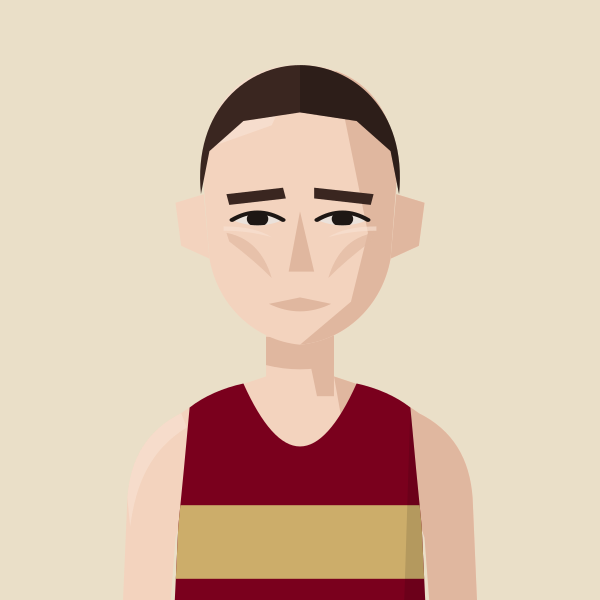
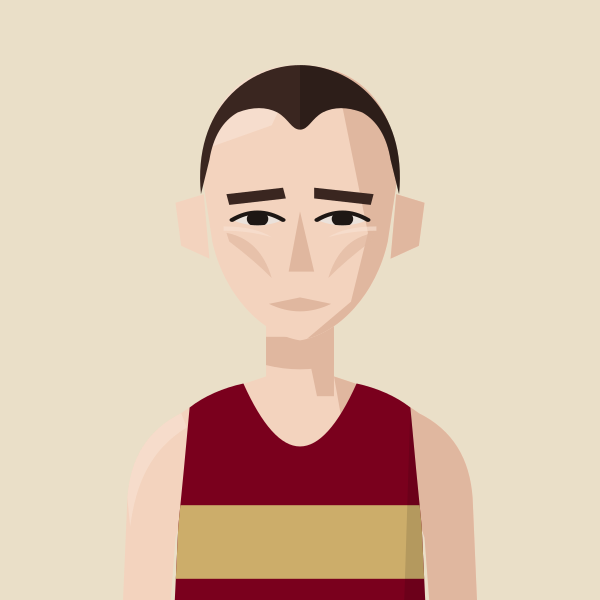
Portraits batch 10: Adam Leane, Alan Mead, Charles Herrington, Clive Shippen, Neil Speaight, Knut Hegvold (H/W and BEL); redraws of Clive Gilby and Gary Staines
Generator note: three jaw shapes - round (default), square, narrow.

Claude-Session: https://claude.ai/code/session_01DgcEr9hQHGiZw2mBbM5jbH

diff --git a/files/index.html b/files/index.html
@@ -591,12 +591,12 @@ const LoadingVests=()=>{
 const PORTRAIT_CLUBS=new Set(['BEL','KEN','THH','HHH','H/W','SLH','G&G','RAN','C/C','DUL','HOL','WAL','CRO','WOK','E&E','FUL','SOC','BOX','BOH','AFD','SUR','MIT','REI','DMV','STR','W4H','W/W','K&P','S&D','SEL','DWN','FOT','LCR','ADV','262','MPA','BAC','OME','VAC','HER']);
 // Superstar portraits: every spelling of the athlete's name used in the data -> file in portraits/athletes/
 const PORTRAITS=(()=>{const m={};const add=(file,club,...names)=>names.forEach(n=>{const k=n.toLowerCase();if(m[k]&&m[k].club!==club)m[k+'@'+club]={file,club};else m[k]={file,club};});
-add('kitty-shepherd-cross','BEL','Kitty Shepherd-Cross','Kitty Shepherd Cross');add('jack-kavanagh','HOL','Jack Kavanagh');add('sam-bramwell','HHH','Sam Bramwell');add('suzie-harvey','G&G','Suzie Harvey');add('freddie-hessian','H/W','Freddie Hessian');add('jamie-crowe','H/W','Jamie Crowe');add('sam-gebreselassie','BEL','Samuel Gebreselassie','Sam Gebreselassie');add('jack-brotchie','HHH','Jack Brotchie');add('jack-millar','THH','Jack Millar');add('lucy-jones','HHH','Lucy Jones');add('alex-milne','H/W','Alex Milne');add('josh-trigwell','BEL','Josh Trigwell');add('mack-downie','BEL','Mack Downey','Mack Downie');add('george-ogden','SLH','George Ogden');add('stuart-mccallum','H/W','Stuart McCallum');add('andrew-penney','H/W','Andrew Penney');add('jeremy-dempsey','THH','Jeremy Dempsey');add('henry-hart','BEL','Henry Hart');add('john-sanderson','G&G','John Sanderson');add('andy-fyfe','BEL','Andrew Fyfe','Andy Fyfe');add('saron-haileselase','BEL','Saron Haileselase');add('paskar-owor','BEL','Paskar Owor');add('ruby-carter','H/W','Ruby Carter');add('tom-foster','G&G','Tom Foster');add('mark-tennyson','G&G','Mark Tennyson');add('richard-ollington','THH','Richard Ollington');add('james-preston','BEL','James Preston');add('daniel-wolff','BEL','Daniel Wolff');add('jonny-scott','BEL','Jonathan Scott','Jonny Scott');add('josh-mitchell','BEL','Josh Mitchell');add('dylan-evans','BEL','Dylan Evans');add('morgan-roberts','HHH','Morgan Roberts');add('fred-slemeck','H/W','Fred Slemeck','Frederick Slemeck');add('matthew-edgar','BEL','Matthew Edgar');add('sam-sommerville','BEL','Sam Sommerville');add('richard-mcdowell','H/W','Richard McDowell');add('margaret-coogan','HHH','Margaret Coogan');add('owen-hind','KEN','Owen Hind','Owen Hinds');add('indy-barnes','THH','Indy Barnes');add('conall-mcnally','BEL','Conall McNally');add('rowan-board','HHH','Rowan Board');add('andy-weir','THH','Andy Weir','Andrew Weir');add('neil-chisholm','THH','Neil Chisholm','Neal Chisholm');add('pancho-panchev','H/W','Pancho Panchev');add('adrien-royer','G&G','Adrien Royer');add('rob-kelly','BEL','Robert Kelly','Rob Kelly');add('alex-janiaud','BEL','Alex Janiaud');add('jack-ramm','DUL','Jack Ramm');add('findlay-dyer','BEL','Findlay Dyer');add('james-blackwood','DUL','James Blackwood');add('sonny-nicoll','H/W','Sonny Nicoll');add('anisse-ismaili','THH','Anisse Ismaili');add('caleb-hathaway','HHH','Caleb Hathaway');add('barnaby-day','KEN','Barnaby Day');add('simon-coppard','BEL','Simon Coppard');add('ronan-tanguy','HHH','Ronan Tanguy');add('chris-threadgold','BEL','Chris Threadgold');add('mathew-speed','KEN','Mathew Speed','Matthew Speed');add('john-lethbridge','THH','John Lethbridge');add('oliver-fox','THH','Oliver Fox');add('jack-woods','HOL','Jack Woods');add('larry-ryan','BEL','Larry Ryan');add('ethan-mccolgan','THH','Ethan McColgan');add('jonathan-collier','KEN','Jonathan Collier');add('andrew-green','HOL','Andrew Green','Andy Green');add('fintan-pearce','BEL','Fintan Pearce');add('daniel-shaw','HHH','Daniel Shaw');add('sam-tyas','BEL','Sam Tyas');add('tom-austin','HHH','Tom Austin');add('ian-ellwood','KEN','Ian Ellwood');add('rian-mccawley','BEL','Rian McCawley');add('kieran-barnes','HOL','Kieran Barnes');add('ed-mallett','H/W','Ed Mallett','Edward Mallett');add('john-hutchins','WOK','John Hutchins');add('george-gathercole','THH','George Gathercole');add('nick-lightfoot','G&G','Nick Lightfoot');add('eoin-brady','H/W','Eoin Brady');add('james-stockings','H/W','James Stockings');add('jack-hobden','H/W','Jack Hobden');add('hugo-hewitt','HOL','Hugo Hewitt');add('zach-nolan','BEL','Zach Nolan');add('isaac-lutaya','H/W','Isaac Lutaya');add('oliver-young','BEL','Oliver Young');add('ben-racle','KEN','Ben Racle');add('josh-snow','BEL','Josh Snow');add('oliver-reynolds','BEL','Oliver Reynolds');add('aaron-wilson','DUL','Aaron Wilson');add('liam-burthem','HHH','Liam Burthem');add('dan-pettitt','KEN','Dan Pettitt');add('bob-holt','H/W','Bob Holt');add('dave-holt','H/W','Dave Holt');add('mike-fuller','H/W','Mike Fuller');add('mike-beevor','H/W','Mike Beevor');add('john-day','H/W','John Day');add('john-sullivan','H/W','John Sullivan');add('barry-collins','H/W','Barry Collins');add('bob-rayman','H/W','Bob Rayman');add('pete-mulholland','H/W','Pete Mulholland');add('charlie-eastaugh','H/W','Charlie Eastaugh');add('oli-carrington','H/W','Oli Carrington');add('jonathan-cornish','H/W','Jonathan Cornish');add('christopher-parker','THH','Christopher Parker');add('monty-hudson','BEL','Monty Hudson');add('dan-wallis-gg','G&G','Dan Wallis');add('ben-pearce','HOL','Ben Pearce');add('jacob-brockmann','THH','Jacob Brockmann');add('alex-gutteridge','HHH','Alex Gutteridge');add('tom-davies','H/W','Tom Davies');add('matt-wood','HHH','Matt Wood');add('isaac-parker','KEN','Isaac Parker');add('tom-omahoney','HHH','Tom O\'Mahoney');add('ed-brewer','G&G','Ed Brewer');add('james-bartram','THH','James Bartram');add('charlie-pickett','G&G','Charlie Pickett');add('harry-guttridge','C/C','Harry Guttridge');add('alex-harris','KEN','Alex Harris');add('tom-thornley','HOL','Tom Thornley');add('max-bloor','DUL','Max Bloor');add('john-foxall','HHH','John Foxall');add('robin-boon','G&G','Robin Boon');add('joe-english','KEN','Joe English');add('sebastian-anthony','G&G','Sebastian Anthony');add('thomas-gardner','BEL','Thomas Gardner');add('brian-wilder','HHH','Brian Wilder');add('george-jackson','HHH','George Jackson');add('james-roberts','BEL','James Roberts');add('ed-gibson','DUL','Ed Gibson');add('jack-harrison','SLH','Jack Harrison');add('matthew-varley','BEL','Matthew Varley');add('eddie-rolls','C/C','Eddie Rolls');add('phil-sanders','KEN','Phil Sanders');add('jon-phillips','DUL','Jon Phillips');add('noah-fernandez','H/W','Noah Fernandez');add('paul-calver','HHH','Paul Calver');add('jordan-weaver','KEN','Jordan Weaver');add('john-thresher','BEL','John Thresher','J Thresher');add('junior-galley','BEL','Junior Galley');add('tony-binda','BEL','Tony Binda');add('phil-carstairs','BEL','Phil Carstairs');add('clive-gilby','BEL','Clive Gilby');add('roger-alsop','HHH','Roger Alsop');add('roger-alsop-bel','BEL','Roger Alsop');add('gerry-adams','BEL','Gerry Adams');add('mike-nouch','BEL','Mike Nouch');add('darren-mead','BEL','Darren Mead');add('james-estall','BEL','James Estall','Jim Estall','J Estall');add('thomas-renshaw','THH','Thomas Renshaw','Tom Renshaw');add('amittai-ben-israel','THH','Amittai Ben-Israel');add('helena-keenan','HHH','Helena Keenan');add('eloise-bull','G&G','Eloise Bull');add('gemma-newport','BEL','Gemma Newport');add('sarah-palmer','STR','Sarah Palmer');add('sarah-palmer-ran','RAN','Sarah Palmer');add('elinor-skinner','KEN','Elinor Skinner');add('sarah-holt','STR','Sarah Holt');add('serena-carter','THH','Serena Carter');add('abbey-brooke','BEL','Abbey Brooke');add('becky-briggs','BEL','Becky Briggs');add('maddie-mastrolonardo','BEL','Maddie Mastrolonardo');add('jennifer-nandi','HHH','Jennifer Nandi');add('ella-fennelly','BEL','Ella Fennelly');add('natalie-beadle','BEL','Natalie Beadle');add('pamela-mchutchon','STR','Pamela McHutchon');add('gerry-north','BEL','Gerry North','G North');add('steve-gardner','BEL','Steve Gardner');add('alex-yee','KEN','Alex Yee');add('phil-wicks','BEL','Phil Wicks');add('john-gilbert','KEN','John Gilbert','Jonathan Gilbert');add('chris-busaileh','KEN','Chris Busaileh');add('jim-allchin','KEN','Jim Allchin');add('finn-johnson','H/W','Finn Johnson');add('will-cockerell','BEL','William Cockerell','Will Cockerell');add('nick-goolab','BEL','Nick Goolab');add('arne-dumez','BEL','Arne Dumez');add('geoff-jerwood','HHH','Geoff Jerwood','G Jerwood');add('alex-lee','HHH','Alex Lee');add('benedict-whitby','HHH','Benedict Whitby');add('falilou-kebe','BEL','Falilou Kebe');add('jack-dickson','H/W','Jack Dickson');add('phil-swinburn','HOL','Phil Swinburn');add('rob-armstrong','DUL','Rob Armstrong');add('ashley-goncalves','HHH','Ashley Goncalves');add('eddie-jodrell','BEL','Eddie Jodrell');add('thomas-gandee','BEL','Thomas Gandee');add('max-milarvie','DUL','Max Milarvie');add('alex-lennon','BEL','Alex Lennon');add('james-hoad','THH','James Hoad');add('william-gardner','BEL','William Gardner');add('paddy-roddy','THH','Paddy Roddy','PADDY RoDDY');add('simon-waterhouse','BEL','Simon Waterhouse');add('conall-whelan','BEL','Conall Whelan');add('simon-williams','BEL','Simon Williams');add('christian-lee','HOL','Christian Lee');add('sean-cordon','DUL','Sean Cordon','sean cordon');add('michael-mccarthy','BEL','Michael McCarthy','Michael Mccarthy');add('jeff-cunningham','HHH','Jeff Cunningham');add('sam-peters','H/W','Sam Peters');add('ryan-hickey','HHH','Ryan Hickey');add('ben-scott','BEL','Ben Scott');add('tom-gifford','BEL','Tom Gifford');add('valentin-rigori','BEL','Valentin Rigori');add('david-grima','H/W','David Grima');add('deron-fagan','HHH','Deron Fagan');add('lee-lintern','G&G','Lee Lintern');add('ian-acreman','G&G','Ian Acreman');add('alex-howard','THH','Alex Howard');add('james-hancock','BEL','James Hancock');add('nick-morris','BEL','Nick Morris');add('richard-sun','H/W','Richard Sun');add('jonathan-cocker','G&G','Jonathan Cocker');add('isobel-hodder','BEL','Isobel Hodder');add('emma-howsham','G&G','Emma Howsham');add('eilidh-hide','BEL','Eilidh Hide');add('karen-xiang','BEL','Karen Xiang');add('claire-grima','H/W','Claire Grima');add('emma-gordon','BEL','Emma Gordon');add('emily-lowery','BEL','Emily Lowery');add('felicity-harrison','BEL','Felicity Harrison');add('alice-martin','HOL','Alice Martin');add('juliet-hodder','BEL','Juliet Hodder');add('abbie-bulbulian','C/C','Abbie Bulbulian');add('lara-mangan','BEL','Lara Mangan');add('clare-elms','KEN','Clare Elms');add('james-nutt','HHH','James Nutt');add('colin-high','G&G','Colin High');add('gavin-eccles','BEL','Gavin Eccles');add('samuel-dames','KEN','Samuel Dames');add('tom-lole','BEL','Tom Lole');add('will-marshall','BEL','Will Marshall');add('stephen-mcleod','HHH','Stephen McLeod');add('rory-orsborn','HHH','Rory Orsborn');add('thomas-dugre','BEL','Thomas Dugre');add('arthur-peel','BEL','Arthur Peel');add('angus-lamb','BEL','Angus Lamb');add('andrew-warburton','HHH','Andrew Warburton');add('robert-laing','KEN','Robert Laing');add('toby-cooke','H/W','Toby Cooke');add('harrison-hayman','SLH','Harrison Hayman');add('edward-chuck','DUL','Edward Chuck');add('robert-sesemann','KEN','Robert Sesemann');add('eoin-molloy','BEL','Eoin Molloy');add('ollie-garrod','BEL','Ollie Garrod');add('matthew-houchell','G&G','Matthew Houchell');add('ben-clarke','KEN','Ben Clarke');add('benjamin-hilson','HOL','Benjamin Hilson');add('molly-oconnor','KEN',"Molly O'Connor");add('iona-cousland','KEN','Iona Cousland');add('anika-schwarze-chintapatla','THH','Anika Schwarze-Chintapatla');add('suzy-whatmough','RAN','Suzy Whatmough');add('kristina-popadich','BEL','Kristina Popadich');add('dillan-quinn','H/W','Dillan Quinn');add('sarah-riceman','BEL','Sarah Riceman');add('holly-pan','BEL','Holly Pan');add('jermaine-mays','SLH','Jermaine Mays');add('gary-staines','BEL','Gary Staines');add('charlie-wyllie','H/W','Charlie Wyllie');add('george-cotton','WOK','George Cotton');add('cameron-reilly','G&G','Cameron Reilly');add('jack-dormer','WOK','Jack Dormer');add('lea-adamson','BEL','Lea Adamson');add('max-heyden','BEL','Max Heyden');add('ian-crowe-wright','BEL','Ian Crowe-Wright');add('neil-wilson','BEL','Neil Wilson');add('lloyd-kempson','BEL','Lloyd Kempson');add('andy-coley-maud','G&G','Andy Coley-Maud');add('dan-cliffe','H/W','Dan Cliffe');add('patrick-mcdougall','BEL','Patrick McDougall','Patrick Mcdougall');add('callum-stewart','BEL','Callum Stewart');add('jamie-parkinson','THH','Jamie Parkinson');add('phil-sesemann','KEN','Phil Sesemann');add('andy-coley-maud-cc','C/C','Andy Coley-Maud');add('jon-pepper-slh','SLH','Jon Pepper');add('ralph-street','RAN','Ralph Street');add('jon-pepper','RAN','Jon Pepper');add('kevin-quinn','SLH','Kevin Quinn');add('frank-tickner','KEN','Frank Tickner');add('paul-pollock','KEN','Paul Pollock');add('chris-busaileh-hhh','HHH','Chris Busaileh','Chris Busileah');add('james-mcmullan','THH','James McMullan');add('ben-hurley','BEL','Ben Hurley');add('alice-crane','DMV','Alice Crane');add('martina-conner','BEL','Martina Conner');add('georgie-grgec','HHH','Georgie Grgec');add('katie-snowden','HHH','Katie Snowden');add('kate-axford','BEL','Kate Axford');add('sarah-astin','BEL','Sarah Astin');add('georgie-bruinvels','SLH','Georgie Bruinvels','G Bruinvels','Georgia Bruinvels');add('samantha-munday','BEL','Samantha Munday','Sanantha Munday');add('holly-nixon','BEL','Holly Nixon');add('sophie-harris','BEL','Sophie Harris');add('isabel-brinsden','E&E','Isabel Brinsden');add('mimi-corden-lloyd','BEL','Mimi Corden-Lloyd');add('steph-hewitt','BEL','Stephanie Hewitt','Steph Hewitt');add('jared-martin','THH','Jared Martin');add('david-bowers','BEL','David Bowers','Dave Bowers');add('stuart-major','SLH','Stuart Major');add('stuart-major-thh','THH','Stuart Major');add('bernie-ford','AFD','Bernie Ford','B Ford');add('dave-taylor','HHH','Dave Taylor');add('arlo-ludewick','HHH','Arlo Ludewick');add('molly-smith','HHH','Molly Smith');add('tom-conlon','HHH','Tom Conlon','T Conlon');add('mike-cummings','HHH','Mike Cummings','M Cummings');add('simon-wurr','THH','Simon Wurr','S Wurr');add('cameron-dockerill','KEN','Cameron Dockerill','Cam Dockerill');add('james-ewing','KEN','James Ewing','Jamie Ewing');add('james-murray','KEN','James Murray');add('phil-woodford-smith','KEN','Phil Woodford-Smith');add('clare-pauzers','HHH','Clare Pauzers','Clare Pauzer','Claire Pauzer');add('steve-smythe','DUL','Steve Smythe','S Smythe','S Smyth','Steve Smyth','SMYTHE');add('steve-smythe-hhh','HHH','Steve Smythe');add('david-symons','THH','David Symons','Dave Symons','D Symons');add('john-foss','SLH','John Foss','John Fosse');add('lucy-macalister','THH','Lucy Macalister','L Macalister');add('vic-maughan','HHH','Vic Maughan','Vic Maughn','Victor Maughn','V Maughan','V Maughn','V Maugan');add('lewis-lloyd','HHH','Lewis Lloyd');add('nic-lukies','BEL','Nic Lukies');add('max-nicholls','KEN','Max Nicholls');add('nick-acfield','KEN','Nick Acfield');add('olly-buck','KEN','Olly Buck');add('dame-dibaba','KEN','Dame Dibaba');add('chris-greenwood','KEN','Chris Greenwood','Christopher Greenwood');add('chris-keavey','BEL','Chris Keavey','C Keavey');add('john-moore','BEL','John Moore');add('john-bromley','BEL','John Bromley');add('don-maclean','BEL','Don Maclean','Don McLean','D Maclean');add('david-north','BEL','Dave North','David North','D North');add('mark-waller','BEL','Mark Waller','M Waller');add('john-gladwin','BEL','John Gladwin','J Gladwin');add('alan-black','BEL','Alan Black');add('james-kelly','BEL','James Kelly');add('russell-dessaix-chin','BEL','Russell Dessaix-Chin');add('malachi-byansi','BEL','Malachi Byansi','Mal Byansi','M Byansi','Martin Byansi','Moses Byansi');add('chris-moss','BEL','Chris Moss');add('richard-ward','BEL','Richard Ward');add('david-anderson','BEL','David Anderson');add('spencer-barden','BEL','Spencer Barden');add('jonathon-blackledge','BEL','Jonathon Blackledge','J Blackledge');add('peter-clarke','H/W','Peter Clarke','P Clarke','Pete Clarke');add('mark-sinclair','BEL','Mark Sinclair','M Sinclair');add('jean-paul-wright','BEL','Jean Paul Wright','J Wright');add('mike-hayes','BEL','Mike Hayes','M Hayes');add('marcello-bizio','BEL','Marcello Bizio','M Bizio');add('ollie-foote','BEL','Oliver Foote','Ollie Foote','O Foote');add('tim-watson','BEL','Tim Watson','T Watson');add('mark-miles','BEL','Mark Miles','M Miles');add('kevin-nash','BEL','Kevin Nash','K Nash');add('paul-freary','BEL','Paul Freary','P Freary');add('stephen-sharp','BEL','Steve Sharp','Stephen Sharp');add('kassa-tadesse','BEL','Kassa Tadesse','K Tadesse');add('mike-farmery','THH','Mike Farmery','M Farmery','N Farmery');add('tom-south','DUL','Tom South','Thomas South');add('peter-giles','H/W','Peter Giles');add('peter-giles-thh','THH','Peter Giles');add('simon-coombes','HHH','Simon Coombes','S Coombes');add('david-ogden','SLH','David Ogden','Dave Ogden','D Ogden');add('robert-elphick','KEN','Robert Elphick');add('tony-harran','HHH','Tony Harran','Anthony Harran','A Harran','T Harran');add('ben-reynolds','THH','Ben Reynolds','B Reynolds');add('tom-jervis','H/W','Tom Jervis');add('nick-torry','KEN','Nick Torry','Nicholas Torry');add('john-bicourt','BEL','John Bicourt','J Bicourt');add('ruby-whyte-wilding','BEL','Ruby Whyte-Wilding');add('sophie-tooley','HHH','Sophie Tooley');add('catherine-kandie','KEN','Catherine Kandie');add('olivia-stillman','HHH','Olivia Stillman');add('alex-gandee','BEL','Alex Gandee');add('billie-mcclosky','BEL','Billie McClosky');add('lisa-bailey','STR','Lisa Bailey');add('amy-clements','KEN','Amy Clements');add('bethanie-murray','THH','Bethanie Murray');add('evie-warren','G&G','Evie Warren');add('lucy-peters','BEL','Lucy Peters');add('emma-lord','H/W','Emma Lord');add('alice-bridger-morales','HHH','Alice Bridger Morales');add('emily-bradley','BEL','Emily Bradley');add('isabelle-pickett','G&G','Isabelle Pickett');add('felicity-hayward','THH','Felicity Hayward');add('gabriel-reynolds','HHH','Gabriel Reynolds');add('lara-bromilow','KEN','Lara Bromilow');add('megan-gildea','HHH','Megan Gildea');add('maeve-kenny','SLH','Maeve Kenny');add('emilie-arnoux','BEL','Emilie Arnoux');add('katie-good','KEN','Katie Good');add('ellie-freeden','KEN','Ellie Freeden');add('alice-smith','SLH','Alice Smith');add('florence-wiggins','THH','Florence Wiggins');add('alexandra-barbour','BEL','Alex Barbour','Alexandra Barbour');add('ella-king-powrie','BEL','Ella King Powrie');add('betsy-griffiths','RAN','Betsy Griffiths');add('nicola-douglas','STR','Nicola Douglas');add('georgie-furze','WOK','Georgie Furze');add('emma-rowland','BEL','Emma Rowland');add('charlotte-griffiths','BEL','Charlotte Griffiths');add('mary-james','SLH','Mary James');add('penny-oliver','BEL','Penny Oliver');add('ava-mcandie','H/W','Ava McAndie');add('bethan-goddard','BEL','Bethan Goddard');add('nikki-sturzaker','HHH','Nikki Sturzaker');add('hannah-english','HHH','Hannah English');add('clara-pettit','H/W','Clara Pettit');add('adrian-major','BEL','Adrian Major');add('bill-kerr','BEL','Bill Kerr','W Kerr');add('brian-gorman','BEL','Brian Gorman','B Gorman');add('charlie-dabbs','BEL','Charlie Dabbs','C Dabbs');add('charlie-manning','BEL','Charlie Manning','C Manning','Charlie Maning');add('john-davies','BEL','John Davies');add('lionel-mann','BEL','Lionel Mann','L Mann');add('pat-newell','BEL','Pat Newell','P Newell');add('tony-fairclough','BEL','Tony Fairclough');add('trevor-hart','BEL','Trevor Hart');add('ron-linstead','BEL','Ron Linstead','R Linstead');add('john-baker','BEL','John Baker','J V Baker','J Baker');add('simon-holmes','BEL','Simon Holmes','S Holmes');add('mike-kortenray','H/W','Mike Kortenray','M Kortenray');add('geoff-biscoe','MIT','Geoff Biscoe','G Biscoe');add('andy-north','BEL','Andy North','A North');add('charlie-dickinson','BEL','Charlie Dickinson','C Dickinson');add('dave-beaver','BEL','Dave Beaver','D Beaver');add('john-mather','BEL','John Mather','J Mather','Jon Mather');add('jon-hobbs','BEL','Jon Hobbs','J Hobbs');add('justin-chaston','BEL','Justin Chaston','J Chaston');add('matt-chaston','BEL','Matt Chaston','M Chaston');add('mark-anderson','BEL','Mark Anderson','M Anderson');add('martin-lake','BEL','Martin Lake','M Lake');add('martin-lewington','BEL','Martin Lewington','M Lewington');add('pete-gardner','BEL','Pete Gardner','P Gardner');add('ray-foley','BEL','Ray Foley','R Foley');add('richard-langley','BEL','Richard Langley');add('don-faircloth','CRO','Don Faircloth','D Faircloth');add('john-kimaiyo','BEL','John Kimaiyo');add('martin-dent','BEL','Martin Dent');add('catherine-bryson','BEL','Catherine Bryson','C Bryson');add('gabby-collison','BEL','Gabby Collison','G Collison','Gabrielle Collison');add('jodie-favell','BEL','Jodie Favell','Jodie Albrow');add('louise-cooper','BEL','Louise Cooper','L Cooper');add('sarah-murphy','BEL','Sarah Murphy');add('tilly-heaton','C/C','Tilly Heaton','Mathilde Heaton','Matilda Heaton');add('tilly-heaton-bel','BEL','Tilly Heaton','Mathilde Heaton','Matilda Heaton');add('vicky-clarke','BEL','Vicky Clarke','Victoria Clarke');add('geoff-north','BEL','Geoff North');add('laurie-ohara','BEL','Laurie O\'Hara','L O\'Hara');add('chris-steer','BEL','Chris Steer','C Steer');add('barry-sawyer','BEL','Barry Sawyer','Sawyer');add('charlie-walker','BEL','Charlie Walker','C Walker');add('john-dear','BEL','John Dear','J Dear');add('michael-baker','BEL','Michael Baker');add('pat-oconnor','BEL','Pat O\'Connor','P O\'Connor');add('colin-pearson','BEL','Colin Pearson','C Pearson');add('jim-rimmer','BEL','Jim Rimmer','J Rimmer');add('john-stow','BEL','John Stow','J Stow');add('fred-paget','BEL','Fred Paget','F Paget');add('bill-weller','BEL','Bill Weller','W Weller');add('bill-weller-wal','WAL','Bill Weller','W Weller');add('doug-maughan','BEL','Doug Maughan','D Maughan');add('john-roberts','SLH','John Roberts','J Roberts');add('norman-stairs','BEL','Norman Stairs');add('jack-hampshire','BEL','Jack Hampshire','Jackie Hampshire');add('ranjit-bhatia','BEL','Ranjit Bhatia');add('graham-macky','BEL','Graham Macky','G Mackie');add('frank-ward','BEL','Frank Ward','F Ward','Francis Ward');add('kevin-sturman','BEL','Kevin Sturman','K Sturman');add('stuart-paton','BEL','Stuart Paton','S Paton','Steve Paton');add('andy-paton','BEL','Andy Paton','A Paton');
+add('kitty-shepherd-cross','BEL','Kitty Shepherd-Cross','Kitty Shepherd Cross');add('jack-kavanagh','HOL','Jack Kavanagh');add('sam-bramwell','HHH','Sam Bramwell');add('suzie-harvey','G&G','Suzie Harvey');add('freddie-hessian','H/W','Freddie Hessian');add('jamie-crowe','H/W','Jamie Crowe');add('sam-gebreselassie','BEL','Samuel Gebreselassie','Sam Gebreselassie');add('jack-brotchie','HHH','Jack Brotchie');add('jack-millar','THH','Jack Millar');add('lucy-jones','HHH','Lucy Jones');add('alex-milne','H/W','Alex Milne');add('josh-trigwell','BEL','Josh Trigwell');add('mack-downie','BEL','Mack Downey','Mack Downie');add('george-ogden','SLH','George Ogden');add('stuart-mccallum','H/W','Stuart McCallum');add('andrew-penney','H/W','Andrew Penney');add('jeremy-dempsey','THH','Jeremy Dempsey');add('henry-hart','BEL','Henry Hart');add('john-sanderson','G&G','John Sanderson');add('andy-fyfe','BEL','Andrew Fyfe','Andy Fyfe');add('saron-haileselase','BEL','Saron Haileselase');add('paskar-owor','BEL','Paskar Owor');add('ruby-carter','H/W','Ruby Carter');add('tom-foster','G&G','Tom Foster');add('mark-tennyson','G&G','Mark Tennyson');add('richard-ollington','THH','Richard Ollington');add('james-preston','BEL','James Preston');add('daniel-wolff','BEL','Daniel Wolff');add('jonny-scott','BEL','Jonathan Scott','Jonny Scott');add('josh-mitchell','BEL','Josh Mitchell');add('dylan-evans','BEL','Dylan Evans');add('morgan-roberts','HHH','Morgan Roberts');add('fred-slemeck','H/W','Fred Slemeck','Frederick Slemeck');add('matthew-edgar','BEL','Matthew Edgar');add('sam-sommerville','BEL','Sam Sommerville');add('richard-mcdowell','H/W','Richard McDowell');add('margaret-coogan','HHH','Margaret Coogan');add('owen-hind','KEN','Owen Hind','Owen Hinds');add('indy-barnes','THH','Indy Barnes');add('conall-mcnally','BEL','Conall McNally');add('rowan-board','HHH','Rowan Board');add('andy-weir','THH','Andy Weir','Andrew Weir');add('neil-chisholm','THH','Neil Chisholm','Neal Chisholm');add('pancho-panchev','H/W','Pancho Panchev');add('adrien-royer','G&G','Adrien Royer');add('rob-kelly','BEL','Robert Kelly','Rob Kelly');add('alex-janiaud','BEL','Alex Janiaud');add('jack-ramm','DUL','Jack Ramm');add('findlay-dyer','BEL','Findlay Dyer');add('james-blackwood','DUL','James Blackwood');add('sonny-nicoll','H/W','Sonny Nicoll');add('anisse-ismaili','THH','Anisse Ismaili');add('caleb-hathaway','HHH','Caleb Hathaway');add('barnaby-day','KEN','Barnaby Day');add('simon-coppard','BEL','Simon Coppard');add('ronan-tanguy','HHH','Ronan Tanguy');add('chris-threadgold','BEL','Chris Threadgold');add('mathew-speed','KEN','Mathew Speed','Matthew Speed');add('john-lethbridge','THH','John Lethbridge');add('oliver-fox','THH','Oliver Fox');add('jack-woods','HOL','Jack Woods');add('larry-ryan','BEL','Larry Ryan');add('ethan-mccolgan','THH','Ethan McColgan');add('jonathan-collier','KEN','Jonathan Collier');add('andrew-green','HOL','Andrew Green','Andy Green');add('fintan-pearce','BEL','Fintan Pearce');add('daniel-shaw','HHH','Daniel Shaw');add('sam-tyas','BEL','Sam Tyas');add('tom-austin','HHH','Tom Austin');add('ian-ellwood','KEN','Ian Ellwood');add('rian-mccawley','BEL','Rian McCawley');add('kieran-barnes','HOL','Kieran Barnes');add('ed-mallett','H/W','Ed Mallett','Edward Mallett');add('john-hutchins','WOK','John Hutchins');add('george-gathercole','THH','George Gathercole');add('nick-lightfoot','G&G','Nick Lightfoot');add('eoin-brady','H/W','Eoin Brady');add('james-stockings','H/W','James Stockings');add('jack-hobden','H/W','Jack Hobden');add('hugo-hewitt','HOL','Hugo Hewitt');add('zach-nolan','BEL','Zach Nolan');add('isaac-lutaya','H/W','Isaac Lutaya');add('oliver-young','BEL','Oliver Young');add('ben-racle','KEN','Ben Racle');add('josh-snow','BEL','Josh Snow');add('oliver-reynolds','BEL','Oliver Reynolds');add('aaron-wilson','DUL','Aaron Wilson');add('liam-burthem','HHH','Liam Burthem');add('dan-pettitt','KEN','Dan Pettitt');add('bob-holt','H/W','Bob Holt');add('dave-holt','H/W','Dave Holt');add('mike-fuller','H/W','Mike Fuller');add('mike-beevor','H/W','Mike Beevor');add('john-day','H/W','John Day');add('john-sullivan','H/W','John Sullivan');add('barry-collins','H/W','Barry Collins');add('bob-rayman','H/W','Bob Rayman');add('pete-mulholland','H/W','Pete Mulholland');add('charlie-eastaugh','H/W','Charlie Eastaugh');add('oli-carrington','H/W','Oli Carrington');add('jonathan-cornish','H/W','Jonathan Cornish');add('christopher-parker','THH','Christopher Parker');add('monty-hudson','BEL','Monty Hudson');add('dan-wallis-gg','G&G','Dan Wallis');add('ben-pearce','HOL','Ben Pearce');add('jacob-brockmann','THH','Jacob Brockmann');add('alex-gutteridge','HHH','Alex Gutteridge');add('tom-davies','H/W','Tom Davies');add('matt-wood','HHH','Matt Wood');add('isaac-parker','KEN','Isaac Parker');add('tom-omahoney','HHH','Tom O\'Mahoney');add('ed-brewer','G&G','Ed Brewer');add('james-bartram','THH','James Bartram');add('charlie-pickett','G&G','Charlie Pickett');add('harry-guttridge','C/C','Harry Guttridge');add('alex-harris','KEN','Alex Harris');add('tom-thornley','HOL','Tom Thornley');add('max-bloor','DUL','Max Bloor');add('john-foxall','HHH','John Foxall');add('robin-boon','G&G','Robin Boon');add('joe-english','KEN','Joe English');add('sebastian-anthony','G&G','Sebastian Anthony');add('thomas-gardner','BEL','Thomas Gardner');add('brian-wilder','HHH','Brian Wilder');add('george-jackson','HHH','George Jackson');add('james-roberts','BEL','James Roberts');add('ed-gibson','DUL','Ed Gibson');add('jack-harrison','SLH','Jack Harrison');add('matthew-varley','BEL','Matthew Varley');add('eddie-rolls','C/C','Eddie Rolls');add('phil-sanders','KEN','Phil Sanders');add('jon-phillips','DUL','Jon Phillips');add('noah-fernandez','H/W','Noah Fernandez');add('paul-calver','HHH','Paul Calver');add('jordan-weaver','KEN','Jordan Weaver');add('john-thresher','BEL','John Thresher','J Thresher');add('junior-galley','BEL','Junior Galley');add('tony-binda','BEL','Tony Binda');add('phil-carstairs','BEL','Phil Carstairs');add('clive-gilby','BEL','Clive Gilby');add('roger-alsop','HHH','Roger Alsop');add('roger-alsop-bel','BEL','Roger Alsop');add('gerry-adams','BEL','Gerry Adams');add('mike-nouch','BEL','Mike Nouch');add('darren-mead','BEL','Darren Mead');add('james-estall','BEL','James Estall','Jim Estall','J Estall');add('thomas-renshaw','THH','Thomas Renshaw','Tom Renshaw');add('amittai-ben-israel','THH','Amittai Ben-Israel');add('helena-keenan','HHH','Helena Keenan');add('eloise-bull','G&G','Eloise Bull');add('gemma-newport','BEL','Gemma Newport');add('sarah-palmer','STR','Sarah Palmer');add('sarah-palmer-ran','RAN','Sarah Palmer');add('elinor-skinner','KEN','Elinor Skinner');add('sarah-holt','STR','Sarah Holt');add('serena-carter','THH','Serena Carter');add('abbey-brooke','BEL','Abbey Brooke');add('becky-briggs','BEL','Becky Briggs');add('maddie-mastrolonardo','BEL','Maddie Mastrolonardo');add('jennifer-nandi','HHH','Jennifer Nandi');add('ella-fennelly','BEL','Ella Fennelly');add('natalie-beadle','BEL','Natalie Beadle');add('pamela-mchutchon','STR','Pamela McHutchon');add('gerry-north','BEL','Gerry North','G North');add('steve-gardner','BEL','Steve Gardner');add('alex-yee','KEN','Alex Yee');add('phil-wicks','BEL','Phil Wicks');add('john-gilbert','KEN','John Gilbert','Jonathan Gilbert');add('chris-busaileh','KEN','Chris Busaileh');add('jim-allchin','KEN','Jim Allchin');add('finn-johnson','H/W','Finn Johnson');add('will-cockerell','BEL','William Cockerell','Will Cockerell');add('nick-goolab','BEL','Nick Goolab');add('arne-dumez','BEL','Arne Dumez');add('geoff-jerwood','HHH','Geoff Jerwood','G Jerwood');add('alex-lee','HHH','Alex Lee');add('benedict-whitby','HHH','Benedict Whitby');add('falilou-kebe','BEL','Falilou Kebe');add('jack-dickson','H/W','Jack Dickson');add('phil-swinburn','HOL','Phil Swinburn');add('rob-armstrong','DUL','Rob Armstrong');add('ashley-goncalves','HHH','Ashley Goncalves');add('eddie-jodrell','BEL','Eddie Jodrell');add('thomas-gandee','BEL','Thomas Gandee');add('max-milarvie','DUL','Max Milarvie');add('alex-lennon','BEL','Alex Lennon');add('james-hoad','THH','James Hoad');add('william-gardner','BEL','William Gardner');add('paddy-roddy','THH','Paddy Roddy','PADDY RoDDY');add('simon-waterhouse','BEL','Simon Waterhouse');add('conall-whelan','BEL','Conall Whelan');add('simon-williams','BEL','Simon Williams');add('christian-lee','HOL','Christian Lee');add('sean-cordon','DUL','Sean Cordon','sean cordon');add('michael-mccarthy','BEL','Michael McCarthy','Michael Mccarthy');add('jeff-cunningham','HHH','Jeff Cunningham');add('sam-peters','H/W','Sam Peters');add('ryan-hickey','HHH','Ryan Hickey');add('ben-scott','BEL','Ben Scott');add('tom-gifford','BEL','Tom Gifford');add('valentin-rigori','BEL','Valentin Rigori');add('david-grima','H/W','David Grima');add('deron-fagan','HHH','Deron Fagan');add('lee-lintern','G&G','Lee Lintern');add('ian-acreman','G&G','Ian Acreman');add('alex-howard','THH','Alex Howard');add('james-hancock','BEL','James Hancock');add('nick-morris','BEL','Nick Morris');add('richard-sun','H/W','Richard Sun');add('jonathan-cocker','G&G','Jonathan Cocker');add('isobel-hodder','BEL','Isobel Hodder');add('emma-howsham','G&G','Emma Howsham');add('eilidh-hide','BEL','Eilidh Hide');add('karen-xiang','BEL','Karen Xiang');add('claire-grima','H/W','Claire Grima');add('emma-gordon','BEL','Emma Gordon');add('emily-lowery','BEL','Emily Lowery');add('felicity-harrison','BEL','Felicity Harrison');add('alice-martin','HOL','Alice Martin');add('juliet-hodder','BEL','Juliet Hodder');add('abbie-bulbulian','C/C','Abbie Bulbulian');add('lara-mangan','BEL','Lara Mangan');add('clare-elms','KEN','Clare Elms');add('james-nutt','HHH','James Nutt');add('colin-high','G&G','Colin High');add('gavin-eccles','BEL','Gavin Eccles');add('samuel-dames','KEN','Samuel Dames');add('tom-lole','BEL','Tom Lole');add('will-marshall','BEL','Will Marshall');add('stephen-mcleod','HHH','Stephen McLeod');add('rory-orsborn','HHH','Rory Orsborn');add('thomas-dugre','BEL','Thomas Dugre');add('arthur-peel','BEL','Arthur Peel');add('angus-lamb','BEL','Angus Lamb');add('andrew-warburton','HHH','Andrew Warburton');add('robert-laing','KEN','Robert Laing');add('toby-cooke','H/W','Toby Cooke');add('harrison-hayman','SLH','Harrison Hayman');add('edward-chuck','DUL','Edward Chuck');add('robert-sesemann','KEN','Robert Sesemann');add('eoin-molloy','BEL','Eoin Molloy');add('ollie-garrod','BEL','Ollie Garrod');add('matthew-houchell','G&G','Matthew Houchell');add('ben-clarke','KEN','Ben Clarke');add('benjamin-hilson','HOL','Benjamin Hilson');add('molly-oconnor','KEN',"Molly O'Connor");add('iona-cousland','KEN','Iona Cousland');add('anika-schwarze-chintapatla','THH','Anika Schwarze-Chintapatla');add('suzy-whatmough','RAN','Suzy Whatmough');add('kristina-popadich','BEL','Kristina Popadich');add('dillan-quinn','H/W','Dillan Quinn');add('sarah-riceman','BEL','Sarah Riceman');add('holly-pan','BEL','Holly Pan');add('jermaine-mays','SLH','Jermaine Mays');add('gary-staines','BEL','Gary Staines');add('charlie-wyllie','H/W','Charlie Wyllie');add('george-cotton','WOK','George Cotton');add('cameron-reilly','G&G','Cameron Reilly');add('jack-dormer','WOK','Jack Dormer');add('lea-adamson','BEL','Lea Adamson');add('max-heyden','BEL','Max Heyden');add('ian-crowe-wright','BEL','Ian Crowe-Wright');add('neil-wilson','BEL','Neil Wilson');add('lloyd-kempson','BEL','Lloyd Kempson');add('andy-coley-maud','G&G','Andy Coley-Maud');add('dan-cliffe','H/W','Dan Cliffe');add('patrick-mcdougall','BEL','Patrick McDougall','Patrick Mcdougall');add('callum-stewart','BEL','Callum Stewart');add('jamie-parkinson','THH','Jamie Parkinson');add('phil-sesemann','KEN','Phil Sesemann');add('andy-coley-maud-cc','C/C','Andy Coley-Maud');add('jon-pepper-slh','SLH','Jon Pepper');add('ralph-street','RAN','Ralph Street');add('jon-pepper','RAN','Jon Pepper');add('kevin-quinn','SLH','Kevin Quinn');add('frank-tickner','KEN','Frank Tickner');add('paul-pollock','KEN','Paul Pollock');add('chris-busaileh-hhh','HHH','Chris Busaileh','Chris Busileah');add('james-mcmullan','THH','James McMullan');add('ben-hurley','BEL','Ben Hurley');add('alice-crane','DMV','Alice Crane');add('martina-conner','BEL','Martina Conner');add('georgie-grgec','HHH','Georgie Grgec');add('katie-snowden','HHH','Katie Snowden');add('kate-axford','BEL','Kate Axford');add('sarah-astin','BEL','Sarah Astin');add('georgie-bruinvels','SLH','Georgie Bruinvels','G Bruinvels','Georgia Bruinvels');add('samantha-munday','BEL','Samantha Munday','Sanantha Munday');add('holly-nixon','BEL','Holly Nixon');add('sophie-harris','BEL','Sophie Harris');add('isabel-brinsden','E&E','Isabel Brinsden');add('mimi-corden-lloyd','BEL','Mimi Corden-Lloyd');add('steph-hewitt','BEL','Stephanie Hewitt','Steph Hewitt');add('jared-martin','THH','Jared Martin');add('david-bowers','BEL','David Bowers','Dave Bowers');add('stuart-major','SLH','Stuart Major');add('stuart-major-thh','THH','Stuart Major');add('bernie-ford','AFD','Bernie Ford','B Ford');add('dave-taylor','HHH','Dave Taylor');add('arlo-ludewick','HHH','Arlo Ludewick');add('molly-smith','HHH','Molly Smith');add('tom-conlon','HHH','Tom Conlon','T Conlon');add('mike-cummings','HHH','Mike Cummings','M Cummings');add('simon-wurr','THH','Simon Wurr','S Wurr');add('cameron-dockerill','KEN','Cameron Dockerill','Cam Dockerill');add('james-ewing','KEN','James Ewing','Jamie Ewing');add('james-murray','KEN','James Murray');add('phil-woodford-smith','KEN','Phil Woodford-Smith');add('clare-pauzers','HHH','Clare Pauzers','Clare Pauzer','Claire Pauzer');add('steve-smythe','DUL','Steve Smythe','S Smythe','S Smyth','Steve Smyth','SMYTHE');add('steve-smythe-hhh','HHH','Steve Smythe');add('david-symons','THH','David Symons','Dave Symons','D Symons');add('john-foss','SLH','John Foss','John Fosse');add('lucy-macalister','THH','Lucy Macalister','L Macalister');add('vic-maughan','HHH','Vic Maughan','Vic Maughn','Victor Maughn','V Maughan','V Maughn','V Maugan');add('lewis-lloyd','HHH','Lewis Lloyd');add('nic-lukies','BEL','Nic Lukies');add('max-nicholls','KEN','Max Nicholls');add('nick-acfield','KEN','Nick Acfield');add('olly-buck','KEN','Olly Buck');add('dame-dibaba','KEN','Dame Dibaba');add('chris-greenwood','KEN','Chris Greenwood','Christopher Greenwood');add('chris-keavey','BEL','Chris Keavey','C Keavey');add('john-moore','BEL','John Moore');add('john-bromley','BEL','John Bromley');add('don-maclean','BEL','Don Maclean','Don McLean','D Maclean');add('david-north','BEL','Dave North','David North','D North');add('mark-waller','BEL','Mark Waller','M Waller');add('john-gladwin','BEL','John Gladwin','J Gladwin');add('alan-black','BEL','Alan Black');add('james-kelly','BEL','James Kelly');add('russell-dessaix-chin','BEL','Russell Dessaix-Chin');add('malachi-byansi','BEL','Malachi Byansi','Mal Byansi','M Byansi','Martin Byansi','Moses Byansi');add('chris-moss','BEL','Chris Moss');add('richard-ward','BEL','Richard Ward');add('david-anderson','BEL','David Anderson');add('spencer-barden','BEL','Spencer Barden');add('jonathon-blackledge','BEL','Jonathon Blackledge','J Blackledge');add('peter-clarke','H/W','Peter Clarke','P Clarke','Pete Clarke');add('mark-sinclair','BEL','Mark Sinclair','M Sinclair');add('jean-paul-wright','BEL','Jean Paul Wright','J Wright');add('mike-hayes','BEL','Mike Hayes','M Hayes');add('marcello-bizio','BEL','Marcello Bizio','M Bizio');add('ollie-foote','BEL','Oliver Foote','Ollie Foote','O Foote');add('tim-watson','BEL','Tim Watson','T Watson');add('mark-miles','BEL','Mark Miles','M Miles');add('kevin-nash','BEL','Kevin Nash','K Nash');add('paul-freary','BEL','Paul Freary','P Freary');add('stephen-sharp','BEL','Steve Sharp','Stephen Sharp');add('kassa-tadesse','BEL','Kassa Tadesse','K Tadesse');add('mike-farmery','THH','Mike Farmery','M Farmery','N Farmery');add('tom-south','DUL','Tom South','Thomas South');add('peter-giles','H/W','Peter Giles');add('peter-giles-thh','THH','Peter Giles');add('simon-coombes','HHH','Simon Coombes','S Coombes');add('david-ogden','SLH','David Ogden','Dave Ogden','D Ogden');add('robert-elphick','KEN','Robert Elphick');add('tony-harran','HHH','Tony Harran','Anthony Harran','A Harran','T Harran');add('ben-reynolds','THH','Ben Reynolds','B Reynolds');add('tom-jervis','H/W','Tom Jervis');add('nick-torry','KEN','Nick Torry','Nicholas Torry');add('john-bicourt','BEL','John Bicourt','J Bicourt');add('ruby-whyte-wilding','BEL','Ruby Whyte-Wilding');add('sophie-tooley','HHH','Sophie Tooley');add('catherine-kandie','KEN','Catherine Kandie');add('olivia-stillman','HHH','Olivia Stillman');add('alex-gandee','BEL','Alex Gandee');add('billie-mcclosky','BEL','Billie McClosky');add('lisa-bailey','STR','Lisa Bailey');add('amy-clements','KEN','Amy Clements');add('bethanie-murray','THH','Bethanie Murray');add('evie-warren','G&G','Evie Warren');add('lucy-peters','BEL','Lucy Peters');add('emma-lord','H/W','Emma Lord');add('alice-bridger-morales','HHH','Alice Bridger Morales');add('emily-bradley','BEL','Emily Bradley');add('isabelle-pickett','G&G','Isabelle Pickett');add('felicity-hayward','THH','Felicity Hayward');add('gabriel-reynolds','HHH','Gabriel Reynolds');add('lara-bromilow','KEN','Lara Bromilow');add('megan-gildea','HHH','Megan Gildea');add('maeve-kenny','SLH','Maeve Kenny');add('emilie-arnoux','BEL','Emilie Arnoux');add('katie-good','KEN','Katie Good');add('ellie-freeden','KEN','Ellie Freeden');add('alice-smith','SLH','Alice Smith');add('florence-wiggins','THH','Florence Wiggins');add('alexandra-barbour','BEL','Alex Barbour','Alexandra Barbour');add('ella-king-powrie','BEL','Ella King Powrie');add('betsy-griffiths','RAN','Betsy Griffiths');add('nicola-douglas','STR','Nicola Douglas');add('georgie-furze','WOK','Georgie Furze');add('emma-rowland','BEL','Emma Rowland');add('charlotte-griffiths','BEL','Charlotte Griffiths');add('mary-james','SLH','Mary James');add('penny-oliver','BEL','Penny Oliver');add('ava-mcandie','H/W','Ava McAndie');add('bethan-goddard','BEL','Bethan Goddard');add('nikki-sturzaker','HHH','Nikki Sturzaker');add('hannah-english','HHH','Hannah English');add('clara-pettit','H/W','Clara Pettit');add('adrian-major','BEL','Adrian Major');add('bill-kerr','BEL','Bill Kerr','W Kerr');add('brian-gorman','BEL','Brian Gorman','B Gorman');add('charlie-dabbs','BEL','Charlie Dabbs','C Dabbs');add('charlie-manning','BEL','Charlie Manning','C Manning','Charlie Maning');add('john-davies','BEL','John Davies');add('lionel-mann','BEL','Lionel Mann','L Mann');add('pat-newell','BEL','Pat Newell','P Newell');add('tony-fairclough','BEL','Tony Fairclough');add('trevor-hart','BEL','Trevor Hart');add('ron-linstead','BEL','Ron Linstead','R Linstead');add('john-baker','BEL','John Baker','J V Baker','J Baker');add('simon-holmes','BEL','Simon Holmes','S Holmes');add('mike-kortenray','H/W','Mike Kortenray','M Kortenray');add('geoff-biscoe','MIT','Geoff Biscoe','G Biscoe');add('andy-north','BEL','Andy North','A North');add('charlie-dickinson','BEL','Charlie Dickinson','C Dickinson');add('dave-beaver','BEL','Dave Beaver','D Beaver');add('john-mather','BEL','John Mather','J Mather','Jon Mather');add('jon-hobbs','BEL','Jon Hobbs','J Hobbs');add('justin-chaston','BEL','Justin Chaston','J Chaston');add('matt-chaston','BEL','Matt Chaston','M Chaston');add('mark-anderson','BEL','Mark Anderson','M Anderson');add('martin-lake','BEL','Martin Lake','M Lake');add('martin-lewington','BEL','Martin Lewington','M Lewington');add('pete-gardner','BEL','Pete Gardner','P Gardner');add('ray-foley','BEL','Ray Foley','R Foley');add('richard-langley','BEL','Richard Langley');add('don-faircloth','CRO','Don Faircloth','D Faircloth');add('john-kimaiyo','BEL','John Kimaiyo');add('martin-dent','BEL','Martin Dent');add('catherine-bryson','BEL','Catherine Bryson','C Bryson');add('gabby-collison','BEL','Gabby Collison','G Collison','Gabrielle Collison');add('jodie-favell','BEL','Jodie Favell','Jodie Albrow');add('louise-cooper','BEL','Louise Cooper','L Cooper');add('sarah-murphy','BEL','Sarah Murphy');add('tilly-heaton','C/C','Tilly Heaton','Mathilde Heaton','Matilda Heaton');add('tilly-heaton-bel','BEL','Tilly Heaton','Mathilde Heaton','Matilda Heaton');add('vicky-clarke','BEL','Vicky Clarke','Victoria Clarke');add('geoff-north','BEL','Geoff North');add('laurie-ohara','BEL','Laurie O\'Hara','L O\'Hara');add('chris-steer','BEL','Chris Steer','C Steer');add('barry-sawyer','BEL','Barry Sawyer','Sawyer');add('charlie-walker','BEL','Charlie Walker','C Walker');add('john-dear','BEL','John Dear','J Dear');add('michael-baker','BEL','Michael Baker');add('pat-oconnor','BEL','Pat O\'Connor','P O\'Connor');add('colin-pearson','BEL','Colin Pearson','C Pearson');add('jim-rimmer','BEL','Jim Rimmer','J Rimmer');add('john-stow','BEL','John Stow','J Stow');add('fred-paget','BEL','Fred Paget','F Paget');add('bill-weller','BEL','Bill Weller','W Weller');add('bill-weller-wal','WAL','Bill Weller','W Weller');add('doug-maughan','BEL','Doug Maughan','D Maughan');add('john-roberts','SLH','John Roberts','J Roberts');add('norman-stairs','BEL','Norman Stairs');add('jack-hampshire','BEL','Jack Hampshire','Jackie Hampshire');add('ranjit-bhatia','BEL','Ranjit Bhatia');add('graham-macky','BEL','Graham Macky','G Mackie');add('frank-ward','BEL','Frank Ward','F Ward','Francis Ward');add('kevin-sturman','BEL','Kevin Sturman','K Sturman');add('stuart-paton','BEL','Stuart Paton','S Paton','Steve Paton');add('andy-paton','BEL','Andy Paton','A Paton');add('adam-leane','BEL','Adam Leane');add('alan-mead','BEL','Alan Mead','A Mead');add('charles-herrington','BEL','Charles Herrington','C Herrington','Chris Herrington');add('clive-shippen','BEL','Clive Shippen','C Shippen');add('neil-speaight','BEL','Neil Speaight');add('knut-hegvold','H/W','Knut Hegvold','K Hegvold');add('knut-hegvold-bel','BEL','Knut Hegvold','K Hegvold');
 return m;})();
 const portraitFile=(name,club)=>{const k=normalizeNameForCompare(name||'').replace(/\s*\(([^)]*)\)$/,(m,c)=>CLUBS[c.toUpperCase()]?'':m);const a=PORTRAITS[k];if(a&&a.club===club)return a.file;const b=PORTRAITS[k+'@'+club];return b?b.file:null;};
 // Athlete header figure: superstar portrait if we have one, else a grey runner in the club vest, else the plain vest icon
 // Changes whenever any portrait changes (set by tools/build_og.py), so browsers fetch fresh images instead of old cached ones
-const PORTRAIT_V='48faa791';
+const PORTRAIT_V='fe29af4e';
 const AthletePortrait=({name,club,w,fill,onClick})=>{const[failed,setFailed]=useState(false);const file=portraitFile(name,club);const src=file?`/portraits/athletes/${file}.svg?v=${PORTRAIT_V}`:PORTRAIT_CLUBS.has(club)?`/portraits/clubs/${club.replace(/\//g,'').replace(/&/g,'and')}.svg?v=${PORTRAIT_V}`:null;if(!src||failed)return<div onClick={onClick} className={onClick?'cursor-pointer':''}><ClubShield club={club} size={w}/></div>;const h=Math.round(w*148/126),ih=Math.round(w*1.4);if(fill)return<div onClick={onClick} className="cursor-pointer" style={{alignSelf:'stretch',minHeight:h,aspectRatio:'126 / 148',flexShrink:0,position:'relative',borderRadius:4,overflow:'hidden'}}><img src={src} alt={file?`Portrait of ${name.replace(/\s*\([^)]*\)$/,'')}`:`Runner in ${CLUBS[club]?.name||club} vest`} style={{position:'absolute',top:0,left:0,display:'block',width:'100%',height:'auto'}} onError={()=>setFailed(true)}/></div>;return<div style={{width:w,height:h,borderRadius:4,overflow:'hidden',flexShrink:0}}><img src={src} alt={file?`Portrait of ${name.replace(/\s*\([^)]*\)$/,'')}`:`Runner in ${CLUBS[club]?.name||club} vest`} width={w} height={ih} style={{display:'block',width:w,height:ih}} onError={()=>setFailed(true)}/></div>;};
 const getClubVestSvg=(club)=>{
   const p="M3 0 L6 0 Q7 4 10 5 Q13 4 14 0 L17 0 L17 20 L3 20 Z";

diff --git a/tools/gen_portraits.py b/tools/gen_portraits.py
@@ -1000,6 +1000,18 @@ save("kevin-sturman", figure("BEL", skin=1, hair="messyvolume", hair_colour="#B8
 save("stuart-paton", figure("BEL", skin=1, hair="sweptback", hair_colour="#2E211B", gaunt=True))
 save("andy-paton", figure("BEL", skin=1, hair="quiffrecede", hair_colour="#2E211B", gaunt=True))
 
+# Jaw shapes (Steve, Oct 2026): three options - "round" (the default HEAD), "square" and "narrow".
+# Belgravian archive / Alan Mead gallery photos, batch 10 (Oct 2026): mostly colour photos.
+save("adam-leane", figure("BEL", skin=1, hair="crop", hair_colour="#3A2620", jaw="round"))
+save("alan-mead", figure("BEL", skin=1, hair=None, facial="stubble", facial_colour="#B9B3AA", glasses=True, jaw="round", creases=True))
+save("charles-herrington", figure("BEL", skin=1, hair="crop", hair_colour="#3A2620", cap="#F2F1EC", jaw="round"))
+save("clive-shippen", figure("BEL", skin=1, hair="floppyrecede", hair_colour="#3A2A20", gaunt=True, jaw="narrow"))
+save("neil-speaight", figure("BEL", skin=1, hair="messyfringe", hair_colour="#3A2620", jaw="square"))
+save("knut-hegvold", figure("H/W", skin=1, hair="spiky", hair_colour="#4A3428", gaunt=True, jaw="narrow"))
+save("knut-hegvold-bel", figure("BEL", skin=1, hair="spiky", hair_colour="#4A3428", gaunt=True, jaw="narrow"))
+save("clive-gilby", figure("BEL", skin=1, hair="croppeak", hair_colour="#3A2620", gaunt=True, jaw="narrow"))
+save("gary-staines", figure("BEL", skin=1, hair="messyvolume", hair_colour="#241A15", gaunt=True, jaw="narrow"))
+
 # ---- Site export -------------------------------------------------------------
 # Every live portrait, written to site/<slug>.svg under the exact file name the
 # site uses (files/portraits/athletes/). Most portraits are saved under their
